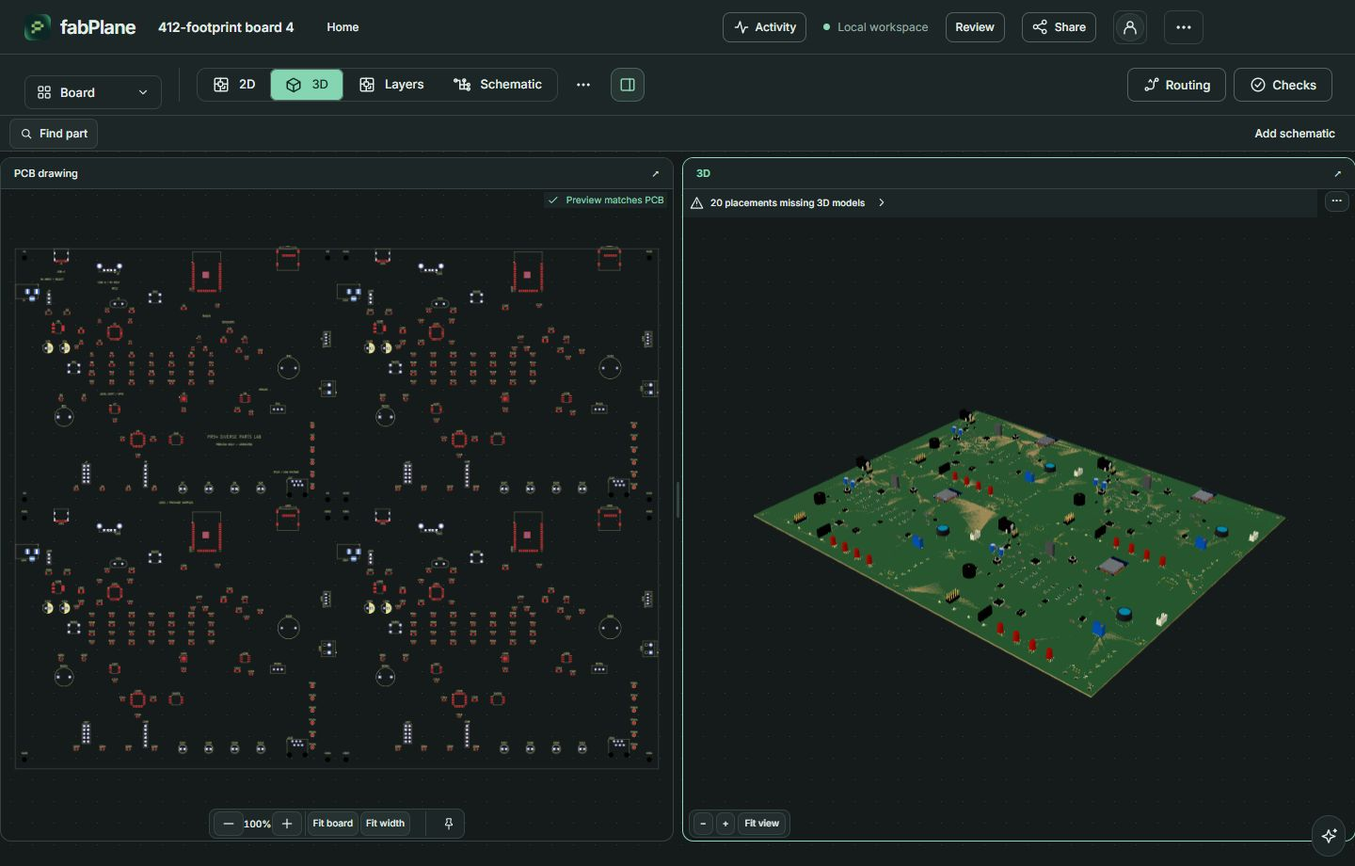
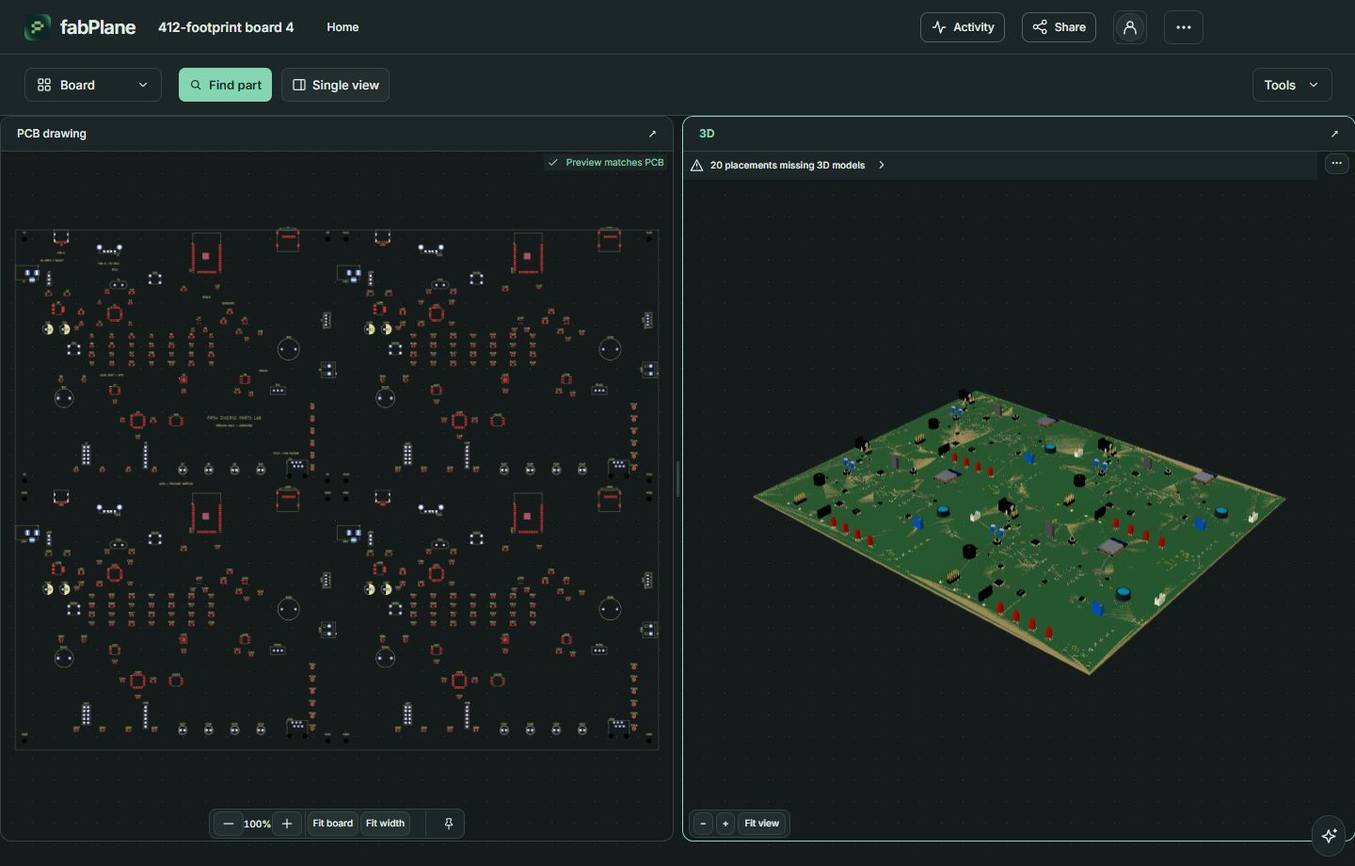
Simplify board inspection around part search and views

diff --git a/scripts/check-part-selection-app.ts b/scripts/check-part-selection-app.ts
@@ -36,7 +36,7 @@ await bridge("/ui", { action: "selectProject", args: [projectId] });
 await page(`window.__selectionErrors=[];window.addEventListener('error',e=>window.__selectionErrors.push(e.message));window.addEventListener('unhandledrejection',e=>window.__selectionErrors.push(String(e.reason)));`);
 const open = async (tab: string) => { await bridge("/ui", { action: "openTab", args: [tab] }); await until(tab === "3d" ? `!!document.querySelector('.fd-model-viewport canvas') && !document.querySelector('.fd-model-message')` : `!!document.querySelector('.fd-svg-host canvas')`); if (!baseline) await until(`!!document.querySelector('.fd-part-picker:not(:disabled)')`); await sleep(350); if (tab !== "3d") { await bridge("/click", { selector: '.fd-svg-fit-button[title="Show the whole drawing"]' }); await until(`document.querySelector('.fd-svg-zoom-value')?.textContent==='100%'`); } };
 // Comparisons persist in the isolated profile; begin the walkthrough in one view.
-if (await page(`!!document.querySelector('button[aria-label="Close comparison"]')`)) await bridge("/click", { selector: 'button[aria-label="Close comparison"]' });
+if (await page(`!!document.querySelector('button[aria-label="Single view, close comparison"]')`)) await bridge("/click", { selector: 'button[aria-label="Single view, close comparison"]' });
 const selected = () => page(`document.querySelector('.fd-part-picker')?.value`);
 const pick = async (view: "pcb" | "schematic", ref: string, scope = "") => {
   await until(`!document.querySelector('[data-focus-motion="running"]')`);
@@ -53,8 +53,9 @@ const pick = async (view: "pcb" | "schematic", ref: string, scope = "") => {
 // Exercise the coordinate-bound PCB drawing rather than the assembled 2D model.
 await bridge("/ui", { action: "openTab", args: ["pcb"] });
 if (await page("!!document.querySelector('.fd-board-preview')")) {
-  await bridge("/click", { selector: ".fd-canvas-tool-menu > summary" });
-  await page(`[...document.querySelectorAll('.fd-canvas-tool-menu button')].find(button => button.textContent === 'PCB drawing & comments').click()`);
+  const toolsMenu = baseline ? ".fd-canvas-tool-menu" : ".fd-board-inspection-tools";
+  await bridge("/click", { selector: toolsMenu + " > summary" });
+  await page(`[...document.querySelectorAll('${toolsMenu} button')].find(button => button.textContent === 'PCB drawing & comments').click()`);
 }
 await open("pcb");
 const zoomBefore = await page(`document.querySelector('.fd-svg-zoom-value')?.textContent`);
@@ -115,7 +116,7 @@ if (!baseline) {
   check("PCB click animates the other views", await page(`['schematic','3d'].every(view=>window.__animatedViews.includes(view))`));
   await until(`!document.querySelector('[data-focus-motion="running"]')`);
   check("PCB click keeps its own zoom steady", await page(`document.querySelector('.fd-comparison-pane[data-view="pcb"] .fd-svg-zoom-value')?.textContent==='100%'`));
-  const controlsInside = `Array.from(document.querySelectorAll('.fd-comparison-pane')).every(p=>{const pane=p.getBoundingClientRect();return [...p.querySelectorAll('header button,.fd-svg-tools button,.fd-model-view-tools button')].every(e=>{const r=e.getBoundingClientRect();return r.width>0&&r.left>=pane.left&&r.right<=pane.right&&r.top>=pane.top&&r.bottom<=pane.bottom})})`;
+  const controlsInside = `Array.from(document.querySelectorAll('.fd-comparison-pane')).every(p=>{const pane=p.getBoundingClientRect();return [...p.querySelectorAll('header button,header summary,.fd-svg-tools button,.fd-model-view-tools button')].filter(e=>e.checkVisibility()).every(e=>{const r=e.getBoundingClientRect();return r.width>0&&r.left>=pane.left&&r.right<=pane.right&&r.top>=pane.top&&r.bottom<=pane.bottom})})`;
   const columns = await page(`document.querySelector('.fd-three-view')?.dataset.layout==='columns'`);
   for (const [label, limits] of [["Resize PCB and other views", columns ? [28,36] : [32,60]], ["Resize schematic and 3D views", columns ? [45,55] : [40,60]]] as const) {
     await page(`document.querySelector('[aria-label="${label}"]').focus()`);
@@ -129,6 +130,7 @@ if (!baseline) {
     await bridge("/key", { key: "Home" });
     await bridge("/key", { key: label.includes("PCB") || columns ? "ArrowRight" : "ArrowDown" });
   }
+  await bridge("/click", { selector: 'summary[aria-label="Part options in Schematic"]' });
   await bridge("/click", { selector: 'button[aria-label="Actions for selected part in Schematic"]' });
   await until(`!!document.querySelector('.fd-location-toolbar')`);
   check("Component actions stay inside their pane", await page(`(()=>{const p=document.querySelector('.fd-comparison-pane[data-view="schematic"]').getBoundingClientRect(), t=document.querySelector('.fd-location-toolbar').getBoundingClientRect();return t.left>=p.left&&t.right<=p.right&&t.top>=p.top&&t.bottom<=p.bottom})()`));
@@ -142,10 +144,13 @@ if (!baseline) {
   await until(`(()=>{const pane=document.querySelector('.fd-comparison-pane[data-view="schematic"]'), frame=pane.querySelector('.fd-svg-viewport').getBoundingClientRect(), mark=pane.querySelector('[data-component-ref="U1"]').getBoundingClientRect();return mark.left>=frame.left&&mark.right<=frame.right&&mark.top>=frame.top&&mark.bottom<=frame.bottom})()`);
   check("Linked focus remains visible after resizing panes", true);
   await capture("04-all-three-views");
+  await bridge("/click", { selector: 'summary[aria-label="Part options in Schematic"]' });
   await bridge("/click", { selector: 'button[aria-label="Focus selected in Schematic"]' });
   await until(`parseInt(document.querySelector('.fd-comparison-pane[data-view="schematic"] .fd-svg-zoom-value')?.textContent)>100`);
   check("Focus zooms the selected schematic part in a compact pane", await page(`parseInt(document.querySelector('.fd-comparison-pane[data-view="schematic"] .fd-svg-zoom-value')?.textContent)>100`));
+  await bridge("/click", { selector: 'summary[aria-label="Part options in PCB drawing"]' });
   await bridge("/click", { selector: 'button[aria-label="Focus selected in PCB drawing"]' });
+  await bridge("/click", { selector: 'summary[aria-label="Part options in 3D"]' });
   await bridge("/click", { selector: 'button[aria-label="Focus selected in 3D"]' });
   await until(`!document.querySelector('[data-focus-motion="running"]')`);
   const focusedInside = `['pcb','schematic'].every(view=>{const pane=document.querySelector('.fd-comparison-pane[data-view="'+view+'"]'), frame=pane.querySelector('.fd-svg-viewport').getBoundingClientRect(), mark=pane.querySelector('[data-component-ref="U1"]').getBoundingClientRect();return mark.left>=frame.left&&mark.right<=frame.right&&mark.top>=frame.top&&mark.bottom<=frame.bottom})`;
@@ -169,6 +174,7 @@ if (!baseline) {
   await openPartPicker("R2");
   const keyInterruption = await page(`new Promise((resolve,reject)=>{document.querySelector('[cmdk-item][data-value="R2"]').click();const started=performance.now();const interrupt=()=>{const c=document.querySelector('.fd-model-viewport canvas');if(c.dataset.focusMotion!=='running'){if(performance.now()-started>5000)return reject(new Error('3D focus did not start'));return requestAnimationFrame(interrupt)}c.focus();c.dispatchEvent(new KeyboardEvent('keydown',{key:'ArrowUp',code:'ArrowUp',bubbles:true,cancelable:true}));const motion=c.dataset.focusMotion,bounds=c.dataset.componentBounds;setTimeout(()=>resolve({stopped:motion==='idle',stable:bounds===c.dataset.componentBounds}),400)};requestAnimationFrame(interrupt)})`);
   check("Keyboard panning cancels automatic 3D focus immediately", keyInterruption.stopped && keyInterruption.stable);
+  await bridge("/click", { selector: 'summary[aria-label="Part options in 3D"]' });
   await bridge("/click", { selector: 'button[aria-label="Focus selected in 3D"]' });
   await until(`!document.querySelector('[data-focus-motion="running"]')`);
   check("A small-part keyboard pan repaints immediately", await page(`(()=>{const c=document.querySelector('.fd-model-viewport canvas'),before=c.dataset.componentBounds;c.dispatchEvent(new KeyboardEvent('keydown',{key:'ArrowUp',code:'ArrowUp',bubbles:true,cancelable:true}));return before!==c.dataset.componentBounds})()`));
@@ -256,7 +262,7 @@ if (!baseline) {
   await page(`document.querySelector('.fd-comparison-pane[data-view="pcb"] .fd-svg-host').focus()`); await bridge("/key", { key: "Escape" });
   await until(`!document.querySelector('[data-component-ref]') && document.querySelector('.fd-model-viewport canvas')?.dataset.selectedComponent===''`);
   check("Escape clears all three visible highlights and removes model tint", await page(`document.querySelector('.fd-model-viewport canvas')?.dataset.tintedMeshes==='0'`));
-  await bridge("/click", { selector: 'button[aria-label="Close comparison"]' });
+  await bridge("/click", { selector: 'button[aria-label="Single view, close comparison"]' });
 
 }
 await page(`window.__motionObserver?.disconnect()`);

diff --git a/packages/ui/src/board/BoardPanel.tsx b/packages/ui/src/board/BoardPanel.tsx
@@ -5,7 +5,6 @@ import { ImportedBoardIdentity } from "./ImportedBoardIdentity";
 import { AssemblyBoardPicker } from "./AssemblyBoardPicker";
 import { restoreAssemblySelection } from "@fabdesk/client-core";
 import { BoardViewTabs } from "./BoardViewTabs";
-import { CanvasToolButton } from "../components/CanvasToolButton";
 import { HostedReviewTools } from "./HostedReviewTools";
 import { WorkspaceMenu } from "../layout/WorkspaceMenu";
 import { Icon } from "../components/Icon";
@@ -100,6 +99,12 @@ export function BoardPanel({ canvas = false }: { canvas?: boolean }) {
     if (compare && pcbOnly && next === "schematic") useUiStore.getState().setBoardComparison(false);
     setWorkspaceTab(next);
   };
+  const comparing = compareAvailable && compare && !!projectId;
+  const [partToolbar, setPartToolbar] = useState<HTMLDivElement | null>(null);
+  const openSingleView = (next: BoardTab) => {
+    useUiStore.getState().setBoardComparison(false);
+    setWorkspaceTab(next);
+  };
   const toggleComparison = () => {
     if (!compare && pcbOnly && tab === "schematic") setWorkspaceTab("pcb");
     useUiStore.getState().setBoardComparison(!compare);
@@ -125,17 +130,29 @@ export function BoardPanel({ canvas = false }: { canvas?: boolean }) {
     <div className="fd-canvas-controls">
       {area === "boards" && projectId && sources.data?.mode === "single" && <ImportedBoardIdentity projectId={projectId} />}
       {area === "boards" && tab === "placement" && projectId && sources.data?.mode === "assembly" && <AssemblyBoardPicker projectId={projectId} data={sources.data} selection={selected} disabled={sources.isFetching} onChoose={selection => useUiStore.getState().setAssemblyBoard(selection)} onBack={() => useUiStore.getState().setWorkspaceArea("overview")} />}
-      {area === "boards" && tab === "cinema" ? <div className="fd-routing-toolbar-slot" data-routing-toolbar-slot /> : area === "boards" ? <BoardViewTabs value={tab === "placement" ? "pcb" : tab} onChange={selectBoardView} /> : workspaceViews(area).length > 1 && <Tabs tabs={visibleTabs} value={tab} onChange={setWorkspaceTab} />}
-      {area === "boards" && tab !== "cinema" && tab !== "placement" && <WorkspaceMenu className="fd-board-tools fd-canvas-tool-menu" label={<><span aria-label="More board tools"><Icon name="more" width={18} height={18} /></span><span className="fd-canvas-tool-label" aria-hidden="true">More board tools</span></>}><div className="fd-menu-caption">Board tools</div><button onClick={() => { setNativeDrawing(value => !value); setWorkspaceTab("pcb"); }}>{nativeDrawing ? "Realistic board view" : "PCB drawing & comments"}</button><button onClick={() => setWorkspaceTab("placement")}>Edit placement</button><button aria-current={tab === "art" ? "page" : undefined} onClick={() => setWorkspaceTab("art")}>Artwork</button>{order.data && <button onClick={openOrder}>Order options</button>}</WorkspaceMenu>}
+      {area === "boards" && tab === "cinema" ? <div className="fd-routing-toolbar-slot" data-routing-toolbar-slot /> : area === "boards" ? !comparing && <BoardViewTabs value={tab === "placement" ? "pcb" : tab} onChange={selectBoardView} /> : workspaceViews(area).length > 1 && <Tabs tabs={visibleTabs} value={tab} onChange={setWorkspaceTab} />}
+      {comparing && <div className="fd-comparison-toolbar-slot" ref={setPartToolbar} />}
+      {compareAvailable && <Button size="sm" variant="secondary" aria-label={comparing ? "Single view, close comparison" : "Compare views"} title={comparing ? "Return to the active view" : "View drawings and 3D side by side"} onClick={toggleComparison}>
+        <Icon name="panel" width={16} height={16} />{comparing ? "Single view" : "Compare"}
+      </Button>}
+      {area === "boards" && tab !== "cinema" && tab !== "placement" && <WorkspaceMenu className="fd-board-inspection-tools" ariaLabel="Board tools" label={<>Tools<Icon name="chevronDown" width={14} height={14} /></>}>
+        {comparing && <button onClick={() => openSingleView("layers")}>View layers</button>}
+        {comparing && pcbOnly && <button onClick={() => openSingleView("schematic")}>Add schematic</button>}
+        <button onClick={() => { setNativeDrawing(comparing || !nativeDrawing); openSingleView("pcb"); }}>{!comparing && nativeDrawing ? "Realistic board view" : "PCB drawing & comments"}</button>
+        <button onClick={() => setWorkspaceTab("placement")}>Edit placement</button>
+        <button onClick={() => setWorkspaceTab("cinema")}>Routing</button>
+        <button aria-current={tab === "art" ? "page" : undefined} onClick={() => setWorkspaceTab("art")}>Artwork</button>
+        <div className="fd-menu-divider" />
+        <button onClick={openChecks}>Board checks</button>
+        {order.data && <button onClick={openOrder}>Order options</button>}
+      </WorkspaceMenu>}
       {area === "boards" && tab === "placement" && <div className="fd-placement-toolbar-slot" data-placement-toolbar-slot />}
       {area === "mechanical" && <div className="fd-mechanical-toolbar-slot" data-mechanical-toolbar-slot />}
       {area === "review" && tab === "diff" && projectId && <HostedReviewTools key={projectId} projectId={projectId} />}
       {area === "review" && (tab === "updates" || tab === "diff" || tab === "comments") && <div className="fd-review-scope-slot" data-review-scope-slot />}
-      {compareAvailable && <CanvasToolButton label={compare ? "Close comparison" : "Compare views"} icon="panel" active={compare} onClick={toggleComparison} />}
-      {area === "boards" && tab !== "cinema" && tab !== "placement" && <div className="fd-board-task-actions">{tab === "pcb" && <Button size="sm" variant="secondary" onClick={() => setWorkspaceTab("placement")}><Icon name="pcb" width={18} height={18} />Edit placement</Button>}<Button size="sm" className="fd-routing-task" variant="secondary" onClick={() => setWorkspaceTab("cinema")}><Icon name="route" width={18} height={18} />Routing</Button><Button size="sm" onClick={openChecks}><Icon name="checkCircle" width={18} height={18} />Checks</Button></div>}
     </div>
     {projectId && <BoardChecksDialog key={projectId} projectId={projectId} open={checksOpen} onClose={() => setChecksOpen(false)} />}
-    <div className="fd-canvas-board-body">{compareAvailable && compare && projectId ? <BoardComparison twoPanes={pcbOnly} onExpandPcb={() => setNativeDrawing(true)} key={projectId} projectId={projectId} active={tab as "pcb" | "schematic" | "3d"} onOpenChecks={openChecks} /> : area === "outputs" && tab === "renders" ? <OutputsLibrary key={projectId} projectId={projectId} /> : area === "outputs" && tab === "files" ? <FilesTab key={projectId} exportFocus /> : area === "boards" && projectId && !(tab === "pcb" && (rootFinding || nativeDrawing || commentRequested)) && (tab === "pcb" || tab === "3d" || tab === "layers") ? <RootBoardPreview key={projectId} projectId={projectId} mode={tab} /> : <TabBody key={`${projectId}:${tab}`} tab={tab} canvas onOpenChecks={openChecks} />}</div>
+    <div className="fd-canvas-board-body">{comparing && projectId ? <BoardComparison toolbar={partToolbar} twoPanes={pcbOnly} onExpandPcb={() => setNativeDrawing(true)} key={projectId} projectId={projectId} active={tab as "pcb" | "schematic" | "3d"} onOpenChecks={openChecks} /> : area === "outputs" && tab === "renders" ? <OutputsLibrary key={projectId} projectId={projectId} /> : area === "outputs" && tab === "files" ? <FilesTab key={projectId} exportFocus /> : area === "boards" && projectId && !(tab === "pcb" && (rootFinding || nativeDrawing || commentRequested)) && (tab === "pcb" || tab === "3d" || tab === "layers") ? <RootBoardPreview key={projectId} projectId={projectId} mode={tab} /> : <TabBody key={`${projectId}:${tab}`} tab={tab} canvas onOpenChecks={openChecks} />}</div>
   </div>;
   return (
     <div className="fd-board-panel flex h-full min-w-0 flex-col bg-panel" data-testid="board-panel">

diff --git a/packages/ui/src/layout/CanvasWorkspace.tsx b/packages/ui/src/layout/CanvasWorkspace.tsx
@@ -109,6 +109,8 @@ export function CanvasWorkspace({ onNewChat, coreStatus, banner }: AppShellProps
   const home = !projectId && !threadId && !secondary;
   const local = ["localhost", "127.0.0.1", "[::1]"].includes(new URL(client.baseUrl).hostname);
   const connected = sseStatus === "open" && (coreStatus?.state ?? "ready") === "ready";
+  const inspectingBoard = area === "boards" && !fresh && !isDraft && !secondary && !conversationOnly && !!projectId;
+  const connection = <span className="fd-canvas-connection" title={coreStatus?.message ?? `Core ${coreStatus?.state ?? "ready"}; events ${sseStatus}`}><i data-connected={connected} />{connected ? local ? "Local workspace" : "Remote workspace" : "Reconnecting…"}</span>;
 
   return <div className="fd-canvas-workspace flex h-full min-w-0 flex-col" data-testid="canvas-workspace">
     <header className="fd-canvas-header" style={{
@@ -128,18 +130,19 @@ export function CanvasWorkspace({ onNewChat, coreStatus, banner }: AppShellProps
         {home && !showProjects && <Button size="sm" onClick={() => setCreating("create")}><Icon name="plus" width={16} height={16} />New project</Button>}
         {home && <Button size="sm" onClick={() => setShowProjects(!showProjects)}><Icon name={showProjects ? "chevronLeft" : "folder"} width={16} height={16} />{showProjects ? "Home" : "Projects"}</Button>}
         {projectId && <ProjectActivity key={`${client.baseUrl}/${projectId}`} projectId={projectId} />}
-        <span className="fd-canvas-connection" title={coreStatus?.message ?? `Core ${coreStatus?.state ?? "ready"}; events ${sseStatus}`}><i data-connected={connected} />{connected ? local ? "Local workspace" : "Remote workspace" : "Reconnecting…"}</span>
-        {projectId && !fresh && !isDraft && <Button size="sm" variant="secondary" title="Review source and output updates" aria-current={area === "review" && boardTab === "updates" ? "page" : undefined} onClick={() => ui().setBoardTab("updates")}>Review</Button>}
+        {(!inspectingBoard || !local || !connected) && connection}
+        {projectId && !fresh && !isDraft && !inspectingBoard && <Button size="sm" variant="secondary" title="Review source and output updates" aria-current={area === "review" && boardTab === "updates" ? "page" : undefined} onClick={() => ui().setBoardTab("updates")}>Review</Button>}
         {projectId && !fresh && !isDraft && <HostedReviewTools key={projectId} projectId={projectId} shareButton />}
         <ProfileButton />
         <WorkspaceMenu className="fd-workspace-overflow" label={<span aria-label="Workspace options"><Icon name="more" width={20} height={20} /></span>}>
           {projectId && <><div className="fd-menu-caption">Current project</div><button onClick={() => setProjectAction({ id: projectId, name, action: "rename", isDraft })}><Icon name="compose" width={16} height={16} />{isDraft ? "Rename idea" : "Rename project"}</button><button onClick={() => ui().requestProjectClose(true)}><Icon name="close" width={16} height={16} />Close project · Home</button><button onClick={() => setNavigationOpen(true)}><Icon name="sidebar" width={16} height={16} />Project conversations</button><div className="fd-menu-divider" /></>}
+          {inspectingBoard && <button onClick={() => ui().setBoardTab("updates")}><Icon name="history" width={16} height={16} />Review updates</button>}
           <button onClick={() => ui().setPaletteOpen(true)}><Icon name="search" width={16} height={16} />Search commands</button>
           <button onClick={() => ui().setSettingsOpen(true)}><Icon name="settings" width={16} height={16} />Settings</button>
           <button onClick={() => ui().setInventoryOpen(true)}><Icon name="library" width={16} height={16} />Parts inventory</button>
           {projectId && <button onClick={() => { ui().setBoardOpen(!boardOpen); setAssistantOpen(false); }}>{boardOpen ? "Focus conversation" : "Return to canvas"}</button>}
           <button onClick={() => ui().setCanvasMode(false)}>Use classic layout</button>
-          <div className="fd-menu-divider" /><div className="fd-workspace-update-actions"><WhatsNewLink /><UpdateBadge /></div>
+          <div className="fd-menu-divider" /><div className="fd-workspace-update-actions"><WhatsNewLink /><UpdateBadge />{inspectingBoard && local && connected && connection}</div>
         </WorkspaceMenu>
       </div>
     </header>

diff --git a/packages/ui/src/board/BoardComparison.tsx b/packages/ui/src/board/BoardComparison.tsx
@@ -1,3 +1,4 @@
+import { createPortal } from "react-dom";
 import { useMemo, useState, useLayoutEffect, useRef, useCallback, type ReactNode } from "react";
 import { Panel, PanelGroup, PanelResizeHandle } from "react-resizable-panels";
 import { PartPicker } from "./PartPicker";
@@ -22,7 +23,7 @@ function Pane({ view, active, onExpand, onFocus, children, focus, onSelect }: { 
 }
 
 /** Three source-bound views; changing pane focus never unmounts the other previews. */
-export function BoardComparison({ projectId, active, onOpenChecks, onExpandPcb, twoPanes }: { projectId: string; twoPanes: boolean; onExpandPcb: () => void; active: View; onOpenChecks?: () => void }) {
+export function BoardComparison({ projectId, active, onOpenChecks, onExpandPcb, twoPanes, toolbar }: { toolbar: HTMLDivElement | null; projectId: string; twoPanes: boolean; onExpandPcb: () => void; active: View; onOpenChecks?: () => void }) {
   const [linkedFocus, setLinkedFocus] = useState<ComparisonFocus | null>(null);
   const sequence = useRef(0);
   const followSelection = useCallback((ref: string, origin: View | null) => setLinkedFocus({ ref, origin, id: ++sequence.current }), []);
@@ -42,14 +43,14 @@ export function BoardComparison({ projectId, active, onOpenChecks, onExpandPcb, 
   return <div ref={host} className="fd-board-comparison fd-three-view" data-layout={twoPanes ? "pair" : columns ? "columns" : "stacked"} data-testid="board-comparison" onKeyDown={event => {
     if (event.key === "Escape" && !event.defaultPrevented && selection.ref && !(event.target instanceof Element && event.target.closest("input,textarea,select,[role=dialog],[role=menu]"))) { selection.clear(); event.preventDefault(); }
   }}>
-    <div className="fd-part-selection-bar fd-shared-part-selection" data-testid="shared-part-selection">
-      <PartPicker reference={selection.ref} references={references} values={selection.values} disabled={!selection.ready}
-        onSelect={ref => { selection.select(ref); followSelection(ref, null); }} onClear={selection.clear}>
-        {selection.ref && <Button size="sm" disabled={!selection.ready} onClick={() => followSelection(selection.ref!, null)}>Focus</Button>}
-      </PartPicker>
-      {!selection.ready && <span role="status">{selection.index.isError ? "Component selection unavailable" : "Loading components…"}</span>}
-      {twoPanes && <Button size="sm" variant="ghost" className="ml-auto" onClick={() => { useUiStore.getState().setBoardComparison(false); focus("schematic"); }}>Add schematic</Button>}
-    </div>
+    {toolbar && createPortal(
+      <div className="fd-part-selection-bar fd-shared-part-selection" data-testid="shared-part-selection">
+        <PartPicker primary reference={selection.ref} references={references} values={selection.values} disabled={!selection.ready}
+          onSelect={ref => { selection.select(ref); followSelection(ref, null); }} onClear={selection.clear}>
+          {selection.ref && <Button size="sm" disabled={!selection.ready} onClick={() => followSelection(selection.ref!, null)}>Focus</Button>}
+        </PartPicker>
+        {!selection.ready && <span role="status">{selection.index.isError ? "Component selection unavailable" : "Loading components…"}</span>}
+      </div>, toolbar)}
     <div className="fd-three-view-panes">
       <PanelGroup direction="horizontal" keyboardResizeBy={5} key={twoPanes ? "two" : "three"} autoSaveId={`fabplane-${twoPanes ? "two" : "three"}-view-columns-${columns ? "short" : "tall"}-${projectId}`}>
         <Panel id="pcb" order={1} defaultSize={twoPanes ? 50 : columns ? 33 : 42} minSize={twoPanes || columns ? 28 : 32} maxSize={twoPanes ? 72 : columns ? 36 : 60}>

diff --git a/packages/ui/src/board/three-view.css b/packages/ui/src/board/three-view.css
@@ -1,11 +1,23 @@
 /* One selector, a tall PCB, and wide schematic/model panes. Controls reserve space
    in each viewport instead of covering the circuit or another pane. */
 .fd-three-view { display:flex; flex-direction:column; min-width:0; gap:6px; }
-.fd-three-view .fd-shared-part-selection { height:38px; min-height:38px; }
+@media (min-width:781px) {
+  .fd-canvas-main[data-area=boards]:has(.fd-board-inspection-tools) > .fd-canvas-destinations { top:14px; }
+}
+/* Share the view toolbar so the drawings start directly below it. */
+.fd-comparison-toolbar-slot .fd-shared-part-selection { height:auto; min-height:0; flex-wrap:wrap; padding:0; border:0; }
+.fd-canvas-controls > .fd-board-inspection-tools { margin-left:auto; }
+.fd-board-inspection-tools > summary { gap:8px; padding-inline:12px; }
+.fd-board-inspection-tools > .fd-workspace-menu-content { left:auto; right:0; width:216px; }
+.fd-comparison-toolbar-slot { min-width:0; max-width:100%; }
+
 .fd-three-view-panes { flex:1; min-height:0; }
-.fd-three-view .fd-comparison-pane > header { flex-wrap:nowrap; gap:4px; padding:3px 6px; min-height:32px; }
-.fd-three-view .fd-comparison-pane > header .fd-button { height:26px; padding:2px 7px; font-size:11px; }
+.fd-three-view .fd-comparison-pane > header { flex-wrap:nowrap; gap:4px; padding:3px 8px; min-height:36px; }
+.fd-three-view .fd-comparison-pane > header .fd-button { height:30px; padding:2px 8px; font-size:12px; }
 .fd-comparison-part-actions { display:flex; flex:1; min-width:0; justify-content:flex-end; align-items:center; gap:4px; }
+.fd-pane-part-menu > summary { min-height:28px; padding:2px 8px; gap:4px; font-size:12px; }
+.fd-pane-part-menu > .fd-workspace-menu-content { left:auto; right:0; width:158px; }
+.fd-comparison-pane > header:has(.fd-pane-part-menu[open]) { position:relative; z-index:26; }
 .fd-comparison-selection-notice { min-width:0; max-width:180px; overflow:hidden; white-space:nowrap; text-overflow:ellipsis; font-size:10px; }
 .fd-comparison-divider-horizontal { width:100%; height:8px; cursor:row-resize; }
 .fd-comparison-divider-horizontal::after { height:3px; width:38px; }

diff --git a/packages/ui/src/board/PartSelectionBar.tsx b/packages/ui/src/board/PartSelectionBar.tsx
@@ -1,6 +1,8 @@
 import { useContext } from "react";
 import { createPortal } from "react-dom";
 import { ComparisonControls } from "./ComparisonControls";
+import { WorkspaceMenu } from "../layout/WorkspaceMenu";
+import { Icon } from "../components/Icon";
 import { Button } from "../components/ui";
 import { PartPicker } from "./PartPicker";
 import "./part-selection.css";
@@ -9,7 +11,10 @@ export function PartSelectionBar({ reference, references, values, onSelect, onCl
   if (comparison) return comparison.target ? createPortal(<>
     {notice && <span className="fd-comparison-selection-notice" role="status" title={notice}>{notice}</span>}
     {onRetry && <Button size="sm" disabled={retrying} aria-label={`Retry component inspection in ${comparison.label}`} onClick={onRetry}>{retrying ? "Retrying…" : "Retry"}</Button>}
-    {reference && <>{onActions && <Button size="sm" variant="ghost" aria-label={`Actions for selected part in ${comparison.label}`} onClick={onActions}>Actions</Button>}<Button size="sm" disabled={!onFocus} aria-label={`Focus selected in ${comparison.label}`} onClick={onFocus}>Focus</Button></>}
+    {reference && <WorkspaceMenu className="fd-pane-part-menu" ariaLabel={`Part options in ${comparison.label}`} label={<>Part<Icon name="chevronDown" width={12} height={12} /></>}>
+      <button disabled={!onFocus} aria-label={`Focus selected in ${comparison.label}`} onClick={onFocus}>Focus in this view</button>
+      {onActions && <button aria-label={`Actions for selected part in ${comparison.label}`} onClick={onActions}>Part actions</button>}
+    </WorkspaceMenu>}
   </>, comparison.target) : null;
   const content = <div className="fd-part-selection-bar" data-testid="part-selection-bar">
     <PartPicker reference={reference} references={references} values={values} onSelect={onSelect} onClear={onClear}>

diff --git a/packages/ui/src/board/BoardPreview.tsx b/packages/ui/src/board/BoardPreview.tsx
@@ -52,7 +52,7 @@ export function BoardPreview({ projectId, mode, directory = ".", board, sourceSt
   const pendingModels = !layerView && !previews.model.isPlaceholderData && !!previews.model.data?.pendingModels;
   const model = !layerView && showComponents ? previews.model.data : undefined;
   const notes = model?.warnings.length ? model.warnings : undefined;
-  let status = "Saved board · previews ready";
+  let status: string | undefined;
   if (error) status = "Preview needs attention";
   else if (pendingModels && previews.model.isFetching) status = "Loading component models…";
   else if (pendingModels) status = "Showing available components";
@@ -68,7 +68,7 @@ export function BoardPreview({ projectId, mode, directory = ".", board, sourceSt
         <Button size="sm" variant={!showComponents ? "primary" : "ghost"} aria-pressed={!showComponents} onClick={() => setShowComponents(false)}>Bare board</Button>
       </div>
       <div className="fd-preview-selection" ref={setSelectionToolbar} hidden={layerView || !showComponents} />
-      {(!notes || status !== "Saved board · previews ready") && <span className="fd-board-preview-status" role="status">{status}</span>}
+      {status && <span className="fd-board-preview-status" role="status">{status}</span>}
       {notes && <details className="fd-preview-model-notes">
         <summary>{inspectModelWarnings(notes).label}</summary>
         <div><ModelExportNotes projectId={projectId} warnings={notes} path={previews.path} {...(board ? { sourceId: board.sourceId, manifestSha256: board.manifestSha256 } : {})} /></div>

diff --git a/packages/ui/src/board/PartPicker.tsx b/packages/ui/src/board/PartPicker.tsx
@@ -9,17 +9,18 @@ type Props = {
   references: readonly string[];
   values: ReadonlyMap<string, string>;
   disabled?: boolean;
+  primary?: boolean;
   onSelect: (ref: string) => void;
   onClear: () => void;
   children?: ReactNode;
 };
 
-export function PartPicker({ reference, references, values, disabled, onSelect, onClear, children }: Props) {
+export function PartPicker({ reference, references, values, disabled, primary, onSelect, onClear, children }: Props) {
   const [open, setOpen] = useState(false);
   const trigger = useRef<HTMLButtonElement>(null);
   const close = () => setOpen(false);
   return <>
-    <Button ref={trigger} size="sm" variant="secondary" className="fd-part-picker" value={reference ?? ""} aria-haspopup="dialog" aria-expanded={open}
+    <Button ref={trigger} size="sm" variant={primary ? "primary" : "secondary"} className="fd-part-picker" value={reference ?? ""} aria-haspopup="dialog" aria-expanded={open}
       aria-label={reference ? `Find part, selected ${reference}` : "Find part"} disabled={disabled || !references.length} onClick={() => setOpen(true)}>
       <Icon name="search" width={14} height={14} /><span>{reference || "Find part"}</span>
     </Button>

diff --git a/packages/ui/src/layout/workspace-bars.css b/packages/ui/src/layout/workspace-bars.css
@@ -279,3 +279,5 @@
   border:0;
   background:transparent;
 }
+
+.fd-workspace-overflow .fd-canvas-connection { font-size:12px; gap:6px; }
